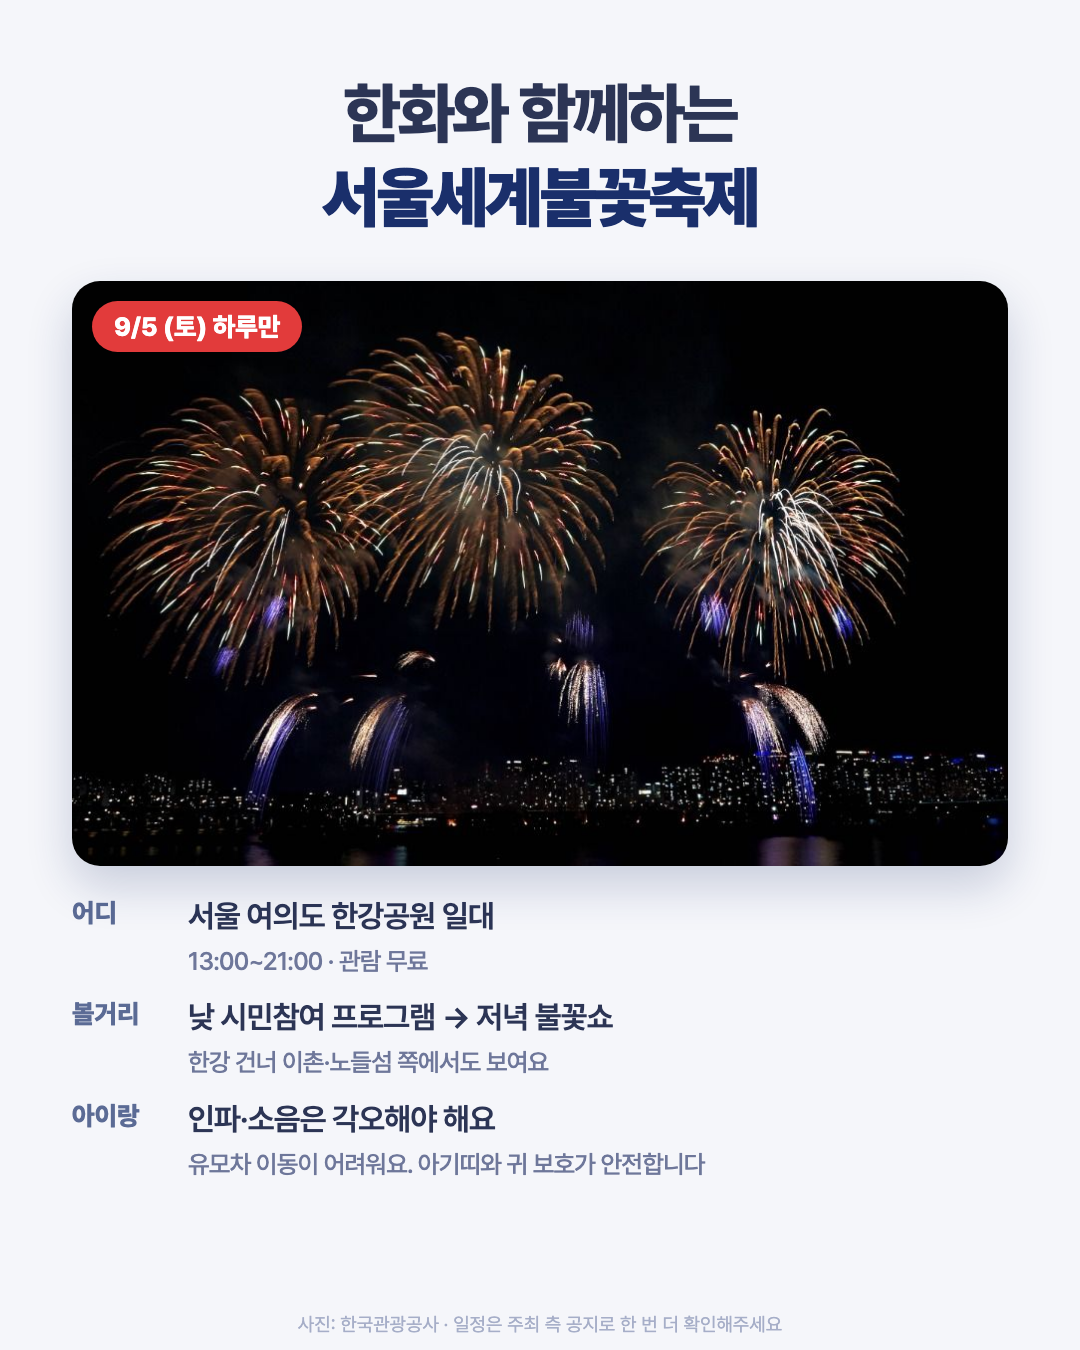
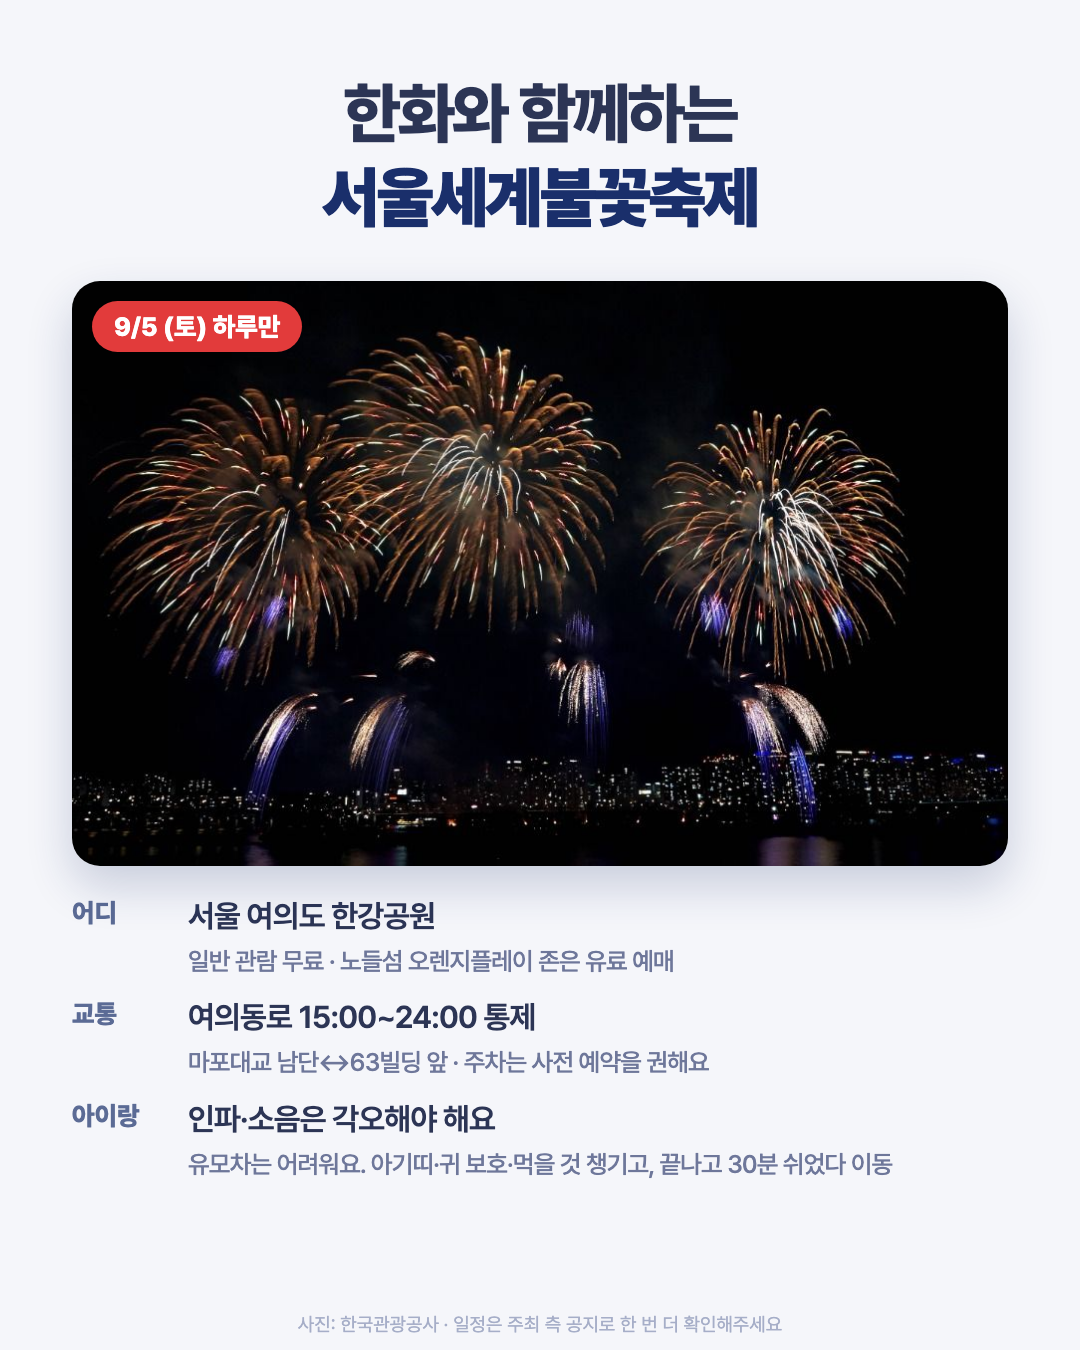
fix: 사진이 잘못돼 실패한 요청이 시간당 허용량을 까먹던 것
후기와 버그 제보 모두, 사진 검사가 허용량을 센 뒤에 있었다. 그래서 사진
형식이 틀려 400 을 받은 요청도 허용량을 한 칸씩 먹었다.

테스트하다 발견했다 — 후기 제출에 성공한 것은 세 번인데 카운터가 5였다.
사진을 몇 번 잘못 고른 사람은 후기를 하나도 못 남긴 채 "한 시간에 5개까지"를
보게 된다. 실제로 이 세션에서 버그 제보도 같은 이유로 429 에 막혔다.

사진 검사를 허용량 앞으로 옮긴다. 거기서 하는 일은 base64 를 바이트로 바꾸는
것뿐이고 2MB 상한이 걸려 있어 남용에 쓰기 어렵다. 값이 나가는 R2 업로드는
허용량을 통과한 뒤에 그대로 둔다.

순서는 코드를 읽어야만 알 수 있어서, 두 함수 안에서 사진 디코딩이
consumeRateLimit 보다 먼저 나오는지 확인하는 테스트를 붙였다.

Claude-Session: https://claude.ai/code/session_01ByeKQ683t3wTbF5CX3mfQv

Changed region(s): [[0.1833, 0.6533, 0.6722, 0.8089], [0.2139, 0.84, 0.825, 0.8711], [0.0611, 0.7467, 0.1222, 0.7778]]

diff --git a/instagram-carousel/slides-festival.html b/instagram-carousel/slides-festival.html
@@ -39,15 +39,15 @@
   }
 
   /* 이번 주말 목록 */
-  .list { flex: 1; display: flex; flex-direction: column; gap: 12px; padding: 26px 68px 92px; justify-content: center; }
+  .list { flex: 1; display: flex; flex-direction: column; gap: 16px; padding: 30px 70px 96px; justify-content: center; }
   .item {
     display: flex; align-items: center; gap: 22px;
-    background: #fff; border-radius: 20px; padding: 18px 24px;
+    background: #fff; border-radius: 22px; padding: 24px 28px;
     box-shadow: 0 10px 28px rgba(44,53,85,.07);
   }
-  .item img { flex: none; width: 94px; height: 70px; border-radius: 13px; object-fit: cover; }
-  .item__body strong { display: block; font-size: 29px; font-weight: 800; color: var(--text); letter-spacing: -.03em; line-height: 1.28; }
-  .item__body span { display: block; margin-top: 4px; font-size: 23px; font-weight: 500; color: var(--sub); }
+  .item img { flex: none; width: 108px; height: 82px; border-radius: 15px; object-fit: cover; }
+  .item__body strong { display: block; font-size: 32px; font-weight: 800; color: var(--text); letter-spacing: -.03em; line-height: 1.28; }
+  .item__body span { display: block; margin-top: 6px; font-size: 24px; font-weight: 500; color: var(--sub); }
   .item__ph {
     flex: none; width: 104px; height: 78px; border-radius: 14px;
     background: linear-gradient(135deg, #35507F, #1A2F6B);
@@ -115,7 +115,7 @@
   </div>
   <div class="cover__bottom" style="padding-bottom: 190px;">
     <p style="font-size:32px;font-weight:600;color:rgba(255,255,255,.88);letter-spacing:-.02em;line-height:1.5;">
-      전국에서 지금 열리는 축제 중<br />아이 데리고 갈 만한 곳만 골랐어요
+      9월 4일 ~ 6일에 열리는 축제 중<br />아이 데리고 갈 만한 다섯 곳
     </p>
   </div>
   <div class="cover__brand">
@@ -126,7 +126,7 @@
 
 <!-- 2. 한눈에 -->
 <section class="slide" id="f2">
-  <div class="head"><h2>개막 <b>가까운 순</b>으로</h2></div>
+  <div class="head"><h2>이번 주말 <b>다섯 곳</b><br />개막 가까운 순</h2></div>
   <div class="list">
     <div class="item">
       <img src="shots-festival/namdang.jpg" alt="" />
@@ -153,13 +153,7 @@
       <div class="item__body"><strong>한여름 밤의 신정호 별빛축제</strong><span>충남 아산 · 별자리 관측</span></div>
       <span class="item__when">9/5~6</span>
     </div>
-    <div class="item">
-      <img src="shots-festival/gyeongbok.jpg" alt="" />
-      <div class="item__body"><strong>경복궁 별빛야행</strong><span>서울 종로 · 야간 궁궐 탐방</span></div>
-      <span class="item__when">진행중<br />~10/24</span>
-    </div>
-  </div>
-  <div class="brandmark"><img src="shots-festival/character-logo-600.png" alt="" />육진대 맵</div>
+<div class="brandmark"><img src="shots-festival/character-logo-600.png" alt="" />육진대 맵</div>
 </section>
 
 <!-- 4. 남당항 대하축제 (사진 없음 → 컬러 블록) -->
@@ -188,9 +182,9 @@
       <span class="fest__tag fest__tag--live">9/5 (토) 하루만</span>
     </div>
     <div class="fest__rows">
-      <div class="fest__row"><span class="fest__key">어디</span><span class="fest__val">서울 여의도 한강공원 일대<small>13:00~21:00 · 관람 무료</small></span></div>
-      <div class="fest__row"><span class="fest__key">볼거리</span><span class="fest__val">낮 시민참여 프로그램 → 저녁 불꽃쇼<small>한강 건너 이촌·노들섬 쪽에서도 보여요</small></span></div>
-      <div class="fest__row"><span class="fest__key">아이랑</span><span class="fest__val">인파·소음은 각오해야 해요<small>유모차 이동이 어려워요. 아기띠와 귀 보호가 안전합니다</small></span></div>
+      <div class="fest__row"><span class="fest__key">어디</span><span class="fest__val">서울 여의도 한강공원<small>일반 관람 무료 · 노들섬 오렌지플레이 존은 유료 예매</small></span></div>
+      <div class="fest__row"><span class="fest__key">교통</span><span class="fest__val">여의동로 15:00~24:00 통제<small>마포대교 남단↔63빌딩 앞 · 주차는 사전 예약을 권해요</small></span></div>
+      <div class="fest__row"><span class="fest__key">아이랑</span><span class="fest__val">인파·소음은 각오해야 해요<small>유모차는 어려워요. 아기띠·귀 보호·먹을 것 챙기고, 끝나고 30분 쉬었다 이동</small></span></div>
     </div>
   </div>
   <p class="credit">사진: 한국관광공사 · 일정은 주최 측 공지로 한 번 더 확인해주세요</p>
@@ -281,15 +275,15 @@
   <div class="fest">
     <div class="fest__shot">
       <img src="shots-festival/sinjeongho.jpg" alt="" />
-      <span class="fest__tag">9/5 (토) ~ 9/6 (일)</span>
+      <span class="fest__tag">9/5 (토) ~ 9/6 (일) 16:00~22:00</span>
     </div>
     <div class="fest__rows">
-      <div class="fest__row"><span class="fest__key">어디</span><span class="fest__val">충남 아산 신정호<small>신정로 616 (방축동)</small></span></div>
-      <div class="fest__row"><span class="fest__key">볼거리</span><span class="fest__val">별자리 관측 · 야외 영화 · 공연<small>호수를 낀 야간 축제라 산책하기 좋아요</small></span></div>
-      <div class="fest__row"><span class="fest__key">참고</span><span class="fest__val">밤 나들이라 겉옷 하나<small>유모차로 수변길 이동이 편해요</small></span></div>
+      <div class="fest__row"><span class="fest__key">어디</span><span class="fest__val">충남 아산 신정호 야외음악당<small>입장 무료 · 주최 아산시</small></span></div>
+      <div class="fest__row"><span class="fest__key">볼거리</span><span class="fest__val">별빛콘서트 · 야외 영화 · 체험 · 전시<small>천체망원경으로 별자리를 보고 해설도 들어요</small></span></div>
+      <div class="fest__row"><span class="fest__key">참고</span><span class="fest__val">해 질 무렵 4시부터 열려요<small>초저녁에 갔다가 어두워지기 전에 나오면 아이도 무리 없어요</small></span></div>
     </div>
   </div>
-  <p class="credit">사진: 한국관광공사</p>
+  <p class="credit">사진: 한국관광공사 · 정보: 문화체육관광부 지역축제</p>
 </section>
 
 <!-- 9. 가기 전에 -->

diff --git a/src/worker.js b/src/worker.js
@@ -959,6 +959,24 @@ async function handleReviewPost(request, env, ctx) {
     return new Response(JSON.stringify({ error: "잘못된 장소 ID입니다." }), { status: 400, headers });
   }
 
+  // 사진은 허용량을 세기 전에 검사한다.
+  //
+  // 순서를 반대로 뒀더니, 사진 형식이 틀려 400 을 받은 요청도 허용량을 까먹었다.
+  // 실제로 확인해 보니 성공 세 번에 카운터가 5였다 — 사진을 몇 번 잘못 고른
+  // 사람은 후기를 하나도 못 남긴 채 "한 시간에 5개까지"를 보게 된다.
+  //
+  // 여기서 하는 일은 base64 를 바이트로 바꾸는 것뿐이고 2MB 상한이 걸려 있어
+  // 남용에 쓰기 어렵다. 값이 나가는 R2 업로드는 허용량을 통과한 뒤에 한다.
+  const rawPhotos = Array.isArray(photos) ? photos.slice(0, MAX_PHOTOS) : [];
+  const decodedPhotos = [];
+  for (const one of rawPhotos) {
+    const decoded = decodeImageDataUrl(one);
+    if (!decoded) {
+      return new Response(JSON.stringify({ error: "사진은 JPEG·PNG 2MB 이하만 올릴 수 있어요." }), { status: 400, headers });
+    }
+    decodedPhotos.push(decoded);
+  }
+
   const ip = request.headers.get("cf-connecting-ip") || "unknown";
   const allowed = await consumeRateLimit(env, {
     scope: "review", ip, limit: REVIEW_RATE_LIMIT_PER_HOUR, windowSeconds: 3600,
@@ -977,14 +995,8 @@ async function handleReviewPost(request, env, ctx) {
     return new Response(JSON.stringify({ error: "이 장소에는 이미 후기를 남기셨어요." }), { status: 409, headers });
   }
 
-  // 사진은 브라우저에서 이미 줄여 보낸다. 여기서는 형식과 크기만 본다.
   const photoUrls = [];
-  const list = Array.isArray(photos) ? photos.slice(0, MAX_PHOTOS) : [];
-  for (const one of list) {
-    const decoded = decodeImageDataUrl(one);
-    if (!decoded) {
-      return new Response(JSON.stringify({ error: "사진은 JPEG·PNG 2MB 이하만 올릴 수 있어요." }), { status: 400, headers });
-    }
+  for (const decoded of decodedPhotos) {
     if (!env.IMAGES) break;
     const objectKey = reportImageKey("review", decoded.contentType);
     try {
@@ -1227,6 +1239,19 @@ async function handleReport(request, env, ctx) {
   }
   const { placeId, field, value, turnstileToken, placeName, amenities, mode } = body;
 
+  // 스크린샷도 허용량을 세기 전에 검사한다 — 후기와 같은 이유다. 사진 형식이
+  // 틀려 400 을 받은 요청이 허용량을 까먹으면, 제보를 하나도 못 보낸 채 막힌다.
+  let decodedShot = null;
+  if (isBug && body.image) {
+    decodedShot = decodeImageDataUrl(body.image);
+    if (!decodedShot) {
+      return new Response(
+        JSON.stringify({ error: "사진은 JPEG·PNG 2MB 이하만 보낼 수 있어요." }),
+        { status: 400, headers }
+      );
+    }
+  }
+
   const ip = request.headers.get("cf-connecting-ip") || "unknown";
 
   // 사람 확인은 되면 좋지만, 안 된다고 제보를 막지는 않는다.
@@ -1285,17 +1310,10 @@ async function handleReport(request, env, ctx) {
     // 스크린샷이 함께 왔으면 R2 에 넣고 주소를 제안값 끝에 붙인다. 노션에 파일
     // 칸을 새로 만들지 않는 이유는, 운영자가 제안값만 읽어도 되게 하기 위해서다.
     let imageNote = "";
-    if (isBug && body.image && env.IMAGES) {
-      const decoded = decodeImageDataUrl(body.image);
-      if (!decoded) {
-        return new Response(
-          JSON.stringify({ error: "사진은 JPEG·PNG 2MB 이하만 보낼 수 있어요." }),
-          { status: 400, headers }
-        );
-      }
-      const key = reportImageKey("bug", decoded.contentType);
+    if (decodedShot && env.IMAGES) {
+      const key = reportImageKey("bug", decodedShot.contentType);
       try {
-        await env.IMAGES.put(key, decoded.bytes, { httpMetadata: { contentType: decoded.contentType } });
+        await env.IMAGES.put(key, decodedShot.bytes, { httpMetadata: { contentType: decodedShot.contentType } });
         imageNote = `\n\n[스크린샷] ${PUBLIC_BASE_URL}/images/${key}`;
       } catch (err) {
         // 사진을 못 올려도 제보 자체는 살린다 — 글만으로도 고칠 수 있는 것이 많다.

diff --git a/src/report-image.test.js b/src/report-image.test.js
@@ -53,3 +53,25 @@ describe("reportImageKey", () => {
     expect(key).toBe("reports/bug/2026-09-02-abc.png");
   });
 });
+
+// 사진 검사는 시간당 허용량을 세기 전에 해야 한다.
+//
+// 순서를 반대로 뒀더니 사진 형식이 틀려 400 을 받은 요청도 허용량을 까먹었다.
+// 실측으로 성공 세 번에 카운터가 5였고, 사진을 몇 번 잘못 고른 사람은 후기를
+// 하나도 못 남긴 채 "한 시간에 5개까지"를 보게 된다.
+//
+// 순서는 코드를 읽어야만 알 수 있어서, worker.js 안에서 사진 디코딩이
+// consumeRateLimit 보다 먼저 나오는지를 직접 확인한다.
+describe("사진 검사와 허용량의 순서", () => {
+  it("후기: decodeImageDataUrl 이 consumeRateLimit 보다 먼저다", async () => {
+    const src = await import("node:fs").then((fs) => fs.readFileSync("src/worker.js", "utf8"));
+    const body = src.slice(src.indexOf("async function handleReviewPost"), src.indexOf("async function handleReviewReport"));
+    expect(body.indexOf("decodeImageDataUrl")).toBeLessThan(body.indexOf('scope: "review"'));
+  });
+
+  it("버그 제보: decodeImageDataUrl 이 consumeRateLimit 보다 먼저다", async () => {
+    const src = await import("node:fs").then((fs) => fs.readFileSync("src/worker.js", "utf8"));
+    const body = src.slice(src.indexOf("async function handleReport"), src.indexOf("async function runScheduledReportApply"));
+    expect(body.indexOf("decodeImageDataUrl")).toBeLessThan(body.indexOf("consumeRateLimit"));
+  });
+});

diff --git a/public/sw.js b/public/sw.js
@@ -1,4 +1,4 @@
-const CACHE_NAME = "yukjindae-map-v132";
+const CACHE_NAME = "yukjindae-map-v133";
 const PRECACHE_URLS = [
   "/",
   "/index.html",

diff --git a/instagram-carousel/caption-festival.md b/instagram-carousel/caption-festival.md
@@ -2,6 +2,7 @@
 
 데이터 출처: 육진대 맵 `/api/festivals` (2026-09-02 조회)
 + 홍성 남당항 대하축제·서울세계불꽃축제는 앱 DB에 없어 TourAPI(searchKeyword2)에서 직접 찾아 넣었다.
++ 불꽃축제·신정호 정보는 공식 홈페이지(hanwhafireworks.com)와 문체부 지역축제 페이지에서 보강했다.
 + 사진은 전부 한국관광공사(TourAPI) 제공. 저작권 구분이 Type3(출처표시+변경금지)라 슬라이드마다 출처를 적었다.
 + 불꽃축제는 TourAPI 일정이 2025년 회차로 남아 있어, 날짜는 네이버·주최 공지(2026-09-05) 기준으로 적었다.
 
@@ -9,25 +10,24 @@
 
 ```
 #이번주말축제 #아빠어디가 #주말나들이
-이번 주말 아이랑 갈 만한 축제, 개막 가까운 순으로 모았어요 🎪
+이번 주말(9/4~6) 아이랑 갈 만한 축제 다섯 곳, 개막 가까운 순으로 🎪
 
-📍 홍성 남당항 대하축제 — 충남 홍성 (9/4 개막, ~11/8)
-맨손 대하잡기·물놀이장·네트어드벤처. 입장 무료, 체험 먼저 하고 대하 먹는 순서 추천
+📍 홍성 남당항 대하축제 — 충남 홍성 (9/4 개막)
+맨손 대하잡기·물놀이장·네트어드벤처. 입장 무료, 개막 축하공연이 9/4~6에 몰려 있어요
 
 📍 한화와 함께하는 서울세계불꽃축제 — 서울 여의도 (9/5 하루)
-13:00~21:00, 관람 무료. 인파·소음은 각오해야 하니 아기띠와 귀 보호 챙기세요
+일반 관람 무료, 노들섬 오렌지플레이 존은 유료 예매.
+여의동로는 15:00~24:00 통제되니 대중교통으로 오세요.
+인파·소음은 각오해야 해요 — 아기띠, 귀 보호, 먹을 것 챙기고 끝나고 30분 쉬었다 이동!
 
 📍 달성가족문화축제 YES! 키즈존 — 대구 달성 (9/5~6, 12:30~16:30)
 국립대구과학관에서 입장 무료. 버블쇼·빅벌룬쇼·마술에 에어바운스까지, 토·일 라인업이 달라요
 
-📍 화성송산포도축제 — 경기 화성 (9/5~6)
+📍 화성송산포도축제 — 경기 화성 (9/5~6, 10:00~18:30)
 포도밟기 체험이 메인. 옷 버려도 되는 걸로 입히세요
 
-📍 한여름 밤의 신정호 별빛축제 — 충남 아산 (9/5~6)
-별자리 관측·야외 영화·공연. 호수 낀 야간 축제라 산책이 좋아요
-
-📍 경복궁 별빛야행 — 서울 종로 (진행중 ~10/24)
-야간 궁궐 탐방. 예매 필요, 큰 아이와 좋아요
+📍 한여름 밤의 신정호 별빛축제 — 충남 아산 (9/5~6, 16:00~22:00)
+신정호 야외음악당에서 무료. 천체망원경 별자리 관측과 야외 영화, 별빛콘서트까지
 
 💡 비가 오면 취소·변경되는 축제가 많아요. 출발 전에 공식 채널 한 번만 확인!
 
@@ -37,7 +37,7 @@
 ## 더보기 전에 보이는 첫 줄
 
 ```
-이번 주말 아이랑 갈 만한 축제 6곳 🎪 개막 가까운 순 — 대하축제·불꽃축제부터
+이번 주말 아이랑 갈 만한 축제 5곳 🎪 대하축제·불꽃축제·키즈존까지
 ```
 
 ## 해시태그
@@ -57,7 +57,9 @@ curl -s https://yukjindae-map.wmf34a.workers.dev/api/festivals | jq '.festivals[
 ```
 
 - 이번 주 날짜에 걸리는 축제만 남기고, 아이 동반 기준(체험·공연·야외 볼거리)으로 5~6곳 추린다.
-- 상세 슬라이드는 **개막 가까운 순**으로 배치한다. 기간이 긴 축제는 목록에만 남긴다.
+- 상세 슬라이드는 **개막 가까운 순**으로 배치한다.
+- **이번 주말에 열리는 것만** 담는다. 상시·장기 축제(경복궁 별빛야행, 전주 퍼레이드 등)를 섞으면
+  "이번 주말"이라는 메시지가 흐려진다. 그런 축제는 따로 한 편으로 묶는다.
 - 사진은 `/images/festivals/...` 경로를 그대로 받아 쓴다(`shots-festival/`).
 - 슬라이드는 `slides-festival.html` 의 축제 카드를 갈아끼우면 된다.
 - 앱 DB에 없는 축제를 운영진이 주면 사진 자리를 컬러 블록으로 채운다(`.fest__shot--blank`).
